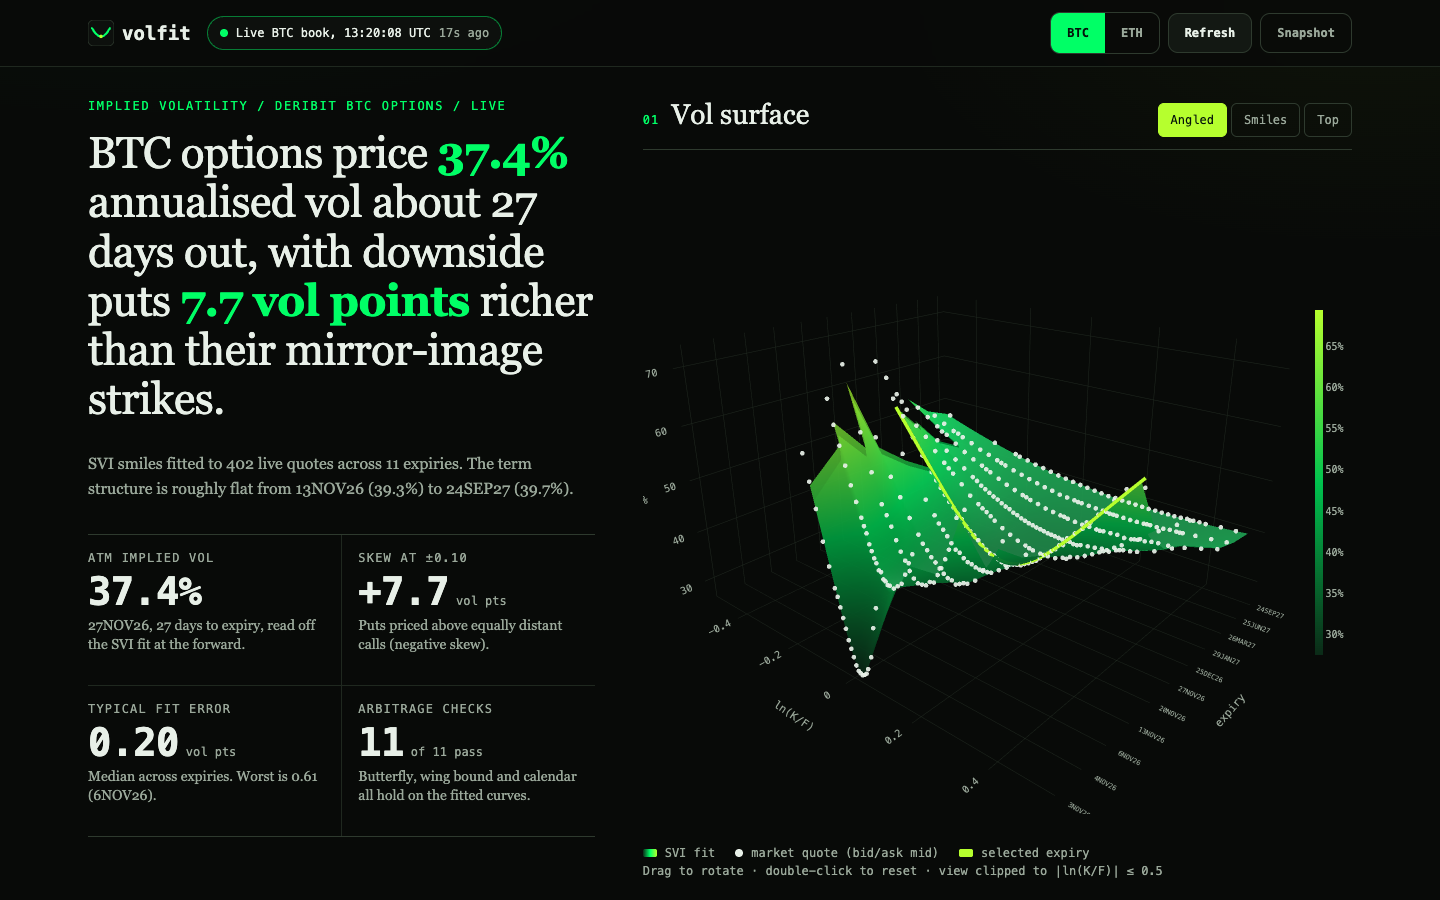
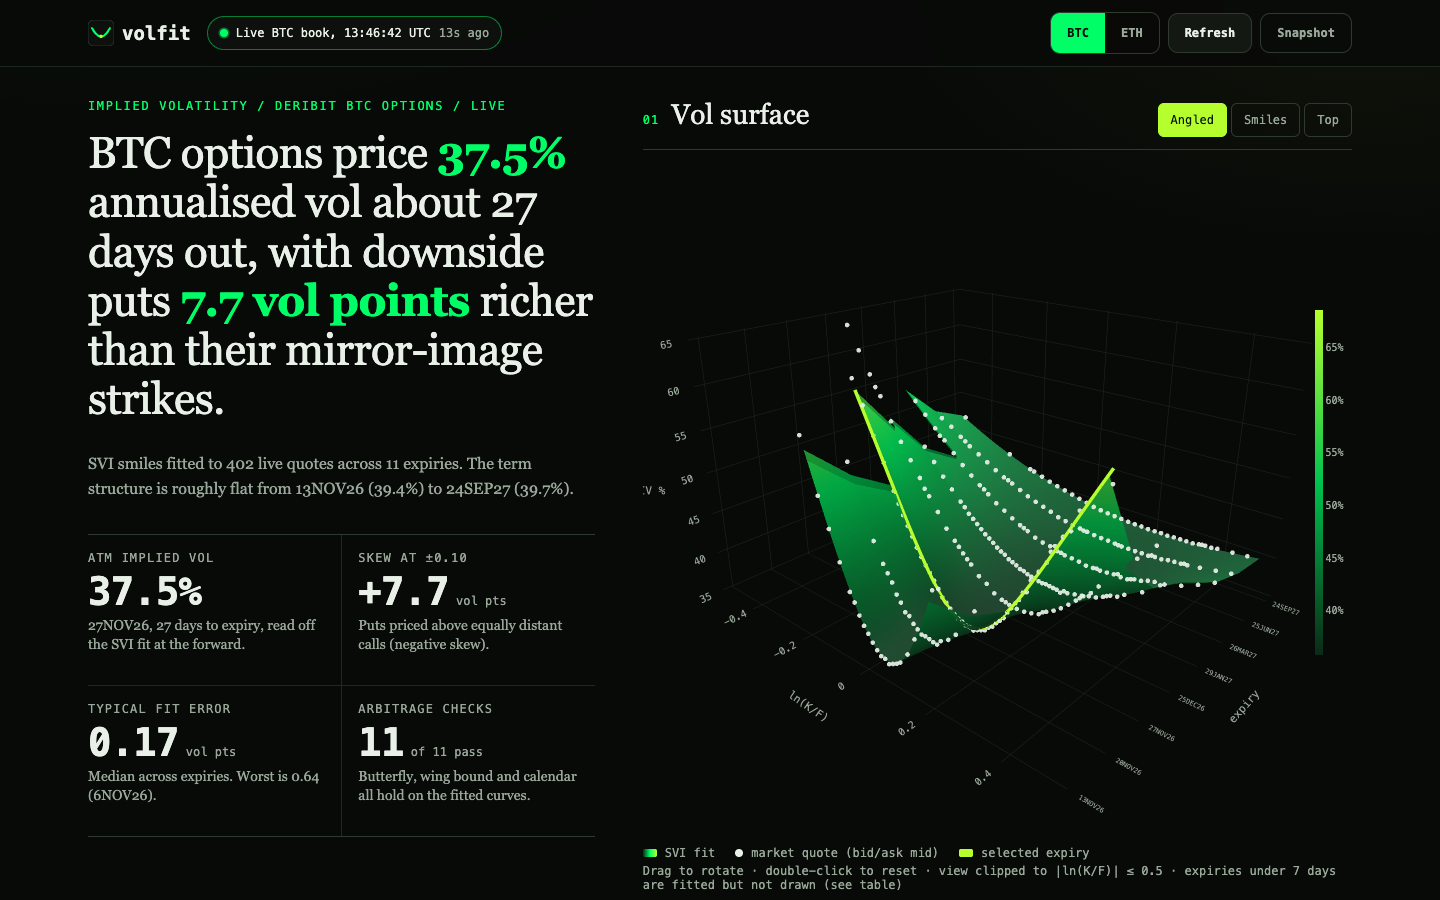
Hide expiries under 7 days from the surface and term line (documented rule, kept in table), larger mobile surface, refreshed screenshots

diff --git a/docs/app.js b/docs/app.js
@@ -11,10 +11,10 @@ const CAMS = {
   smiles: { x: 0.02, y: -2.0, z: 0.28 },
   top: { x: 0.02, y: -0.5, z: 2.2 },
 };
-const camOf = n => { const c = CAMS[n] || CAMS.angled, k = innerWidth < 640 ? 0.78 : 1; return { x: c.x * k, y: c.y * k, z: c.z * k }; };
+const camOf = n => { const c = CAMS[n] || CAMS.angled, k = innerWidth < 640 ? 1.15 : 1; return { x: c.x * k, y: c.y * k, z: c.z * k }; };
 const KCLIP = 0.5; // 3D view only: short-dated wings beyond this dominate the z-axis
 const ASPECT = { x: 1.3, y: 1.1, z: 0.8 };
-const state = { cur: 'BTC', rows: [], fitted: [], sel: 0, data: null, summary: null, cam: 'angled', liveError: null, surf: null, selSeq: 0 };
+const state = { cur: 'BTC', rows: [], fitted: [], shown: [], sel: 0, data: null, summary: null, cam: 'angled', liveError: null, surf: null, selSeq: 0 };
 
 const nextFrame = () => new Promise(r => requestAnimationFrame(() => setTimeout(r, 0)));
 const pct = (x, d = 2) => (x * 100).toFixed(d);
@@ -76,7 +76,8 @@ const sph = e => { const r = Math.hypot(e.x, e.y, e.z); return { r, az: Math.ata
 const eyeOf = o => ({ x: o.r * Math.cos(o.el) * Math.cos(o.az), y: o.r * Math.cos(o.el) * Math.sin(o.az), z: o.r * Math.sin(o.el) });
 const curEye = () => $('surface').layout.scene.camera.eye;
 const wrapAngle = a => Math.atan2(Math.sin(a), Math.cos(a));
-const focusCenter = i => ({ x: 0, y: state.fitted.length > 1 ? 0.28 * (i / (state.fitted.length - 1) - 0.5) * ASPECT.y : 0, z: 0 });
+const shownIdx = () => state.shown.indexOf(state.rows[state.sel]);
+const focusCenter = i => ({ x: 0, y: i >= 0 && state.shown.length > 1 ? 0.28 * (i / (state.shown.length - 1) - 0.5) * ASPECT.y : 0, z: 0 });
 
 let camPending = false, camNext = null;
 function applyCam(eye, center) {
@@ -109,7 +110,7 @@ function glide(toEye, toCenter, dur = 800, key = 'cam') {
 function setCam(name) {
   state.cam = name;
   document.querySelectorAll('.cams button').forEach(b => b.setAttribute('aria-pressed', String(b.dataset.cam === name)));
-  return glide(camOf(name), focusCenter(state.sel >= 0 ? state.fitted.indexOf(state.rows[state.sel]) : 0), 850);
+  return glide(camOf(name), focusCenter(shownIdx()), 850);
 }
 
 // Own orbit control: drag to rotate with inertia, double-click to reset, arrow keys to nudge.
@@ -160,7 +161,7 @@ function wireOrbit() {
 /* ---------- surface ---------- */
 async function renderSurface(rows, animate) {
   const el = $('surface');
-  const fitted = state.fitted;
+  const fitted = state.shown;
   if (!hasGL()) { el.innerHTML = '<p class="note" style="padding:24px">The 3D surface needs WebGL, which this browser has switched off. The smile charts and the diagnostics table still work.</p>'; document.body.dataset.surface = 'ready'; return; }
   if (!fitted.length) { el.textContent = 'No expiry had enough two-sided quotes to fit.'; document.body.dataset.surface = 'ready'; return; }
   const gmin = Math.max(-KCLIP, Math.min(...fitted.map(r => r.kmin))), gmax = Math.min(KCLIP, Math.max(...fitted.map(r => r.kmax)));
@@ -195,8 +196,8 @@ async function renderSurface(rows, animate) {
     hoverlabel: { bgcolor: css('--c-surface'), bordercolor: css('--c-rule-strong'), font: { family: css('--f-mono'), size: 12, color: css('--c-text') } },
     scene: {
       xaxis: ax(innerWidth < 640 ? '' : 'ln(K/F)'), yaxis: ax('expiry', { tickvals: yi, ticktext: fitted.map(r => r.label), tickfont: { size: 9 } }),
-      zaxis: ax('IV %'), camera: { eye: start, center: focusCenter(fitted.indexOf(state.rows[state.sel])), up: { x: 0, y: 0, z: 1 } },
-      aspectmode: 'manual', aspectratio: ASPECT, dragmode: false,
+      zaxis: ax('IV %'), camera: { eye: start, center: focusCenter(shownIdx()), up: { x: 0, y: 0, z: 1 } },
+      aspectmode: 'manual', aspectratio: innerWidth < 640 ? { x: 0.95, y: 1.0, z: 0.8 } : ASPECT, dragmode: false,
     },
   }, { responsive: true, displaylogo: false, displayModeBar: false, scrollZoom: false });
   document.body.dataset.surface = run ? 'building' : 'ready';
@@ -218,8 +219,8 @@ async function renderSurface(rows, animate) {
 function setHighlight() {
   const S = state.surf, el = $('surface');
   if (!S || !el.data) return;
-  const i = state.fitted.indexOf(state.rows[state.sel]);
-  if (i < 0) return;
+  const i = shownIdx();
+  if (i < 0) { Plotly.restyle('surface', { x: [[]], y: [[]], z: [[]] }, [2]); return; }
   const xs = [], zs = [];
   S.kg.forEach((k, j) => { if (S.zFull[i][j] !== null) { xs.push(k); zs.push(S.zFull[i][j] + 0.05); } });
   Plotly.restyle('surface', { x: [xs], y: [xs.map(() => i)], z: [zs] }, [2]);
@@ -321,21 +322,21 @@ async function selectExpiry(i, animate) {
   document.body.dataset.expiry = state.rows[i].label;
   if ($('surface').data) {
     setHighlight();
-    if (animate && state.cam !== 'custom') glide(curEye(), focusCenter(fi), 700, 'focus');
+    if (animate && state.cam !== 'custom') glide(curEye(), focusCenter(shownIdx()), 700, 'focus');
   }
   await drawSmile(!animate, seq);
 }
 
 /* ---------- term structure sparkline ---------- */
 function renderTerm() {
-  const f = state.fitted, svg = $('term');
+  const f = state.shown, svg = $('term');
   if (!f.length) { svg.innerHTML = ''; return; }
   const W = 320, H = 120, L = 8, R = 8, T = 22, B = 26;
   const xs = f.map(r => Math.sqrt(r.days)), x0 = Math.min(...xs), x1 = Math.max(...xs);
   const ys = f.map(r => 100 * r.atm), lo = Math.min(...ys), hi = Math.max(...ys), pad = Math.max(0.5, (hi - lo) * 0.15);
   const X = v => L + (W - L - R) * (x1 === x0 ? 0.5 : (v - x0) / (x1 - x0));
   const Y = v => T + (H - T - B) * (1 - (v - (lo - pad)) / (hi - lo + 2 * pad));
-  const sel = state.fitted.indexOf(state.rows[state.sel]);
+  const sel = shownIdx();
   const pts = f.map((r, i) => [X(xs[i]), Y(ys[i])]);
   const NS = 'http://www.w3.org/2000/svg';
   svg.innerHTML = '';
@@ -343,8 +344,7 @@ function renderTerm() {
   add('line', { class: 'ax', x1: L, x2: W - R, y1: H - B + 6, y2: H - B + 6 });
   add('polyline', { class: 'ln', points: pts.map(p => p.join(',')).join(' ') });
   pts.forEach((p, i) => add('circle', { class: 'pt' + (i === sel ? ' on' : ''), cx: p[0], cy: p[1], r: i === sel ? 5 : 3 }));
-  const sp = pts[sel];
-  add('text', { class: 'hot', x: Math.min(W - 30, Math.max(30, sp[0])), y: Math.max(12, sp[1] - 11), 'text-anchor': 'middle' }, `${ys[sel].toFixed(1)}%`);
+  if (sel >= 0) { const sp = pts[sel]; add('text', { class: 'hot', x: Math.min(W - 30, Math.max(30, sp[0])), y: Math.max(12, sp[1] - 11), 'text-anchor': 'middle' }, `${ys[sel].toFixed(1)}%`); }
   add('text', { x: L, y: H - 6 }, f[0].label);
   add('text', { x: W - R, y: H - 6, 'text-anchor': 'end' }, f[f.length - 1].label);
   svg.setAttribute('aria-label', `ATM implied vol by expiry: ${f.map((r, i) => `${r.label} ${ys[i].toFixed(1)} percent`).join(', ')}`);
@@ -353,21 +353,21 @@ function renderTerm() {
 /* ---------- secondary ---------- */
 function renderTable(rows) {
   const t = $('report');
-  const head = '<thead><tr><th>expiry</th><th>days</th><th>forward</th><th>quotes</th><th>ATM IV %</th><th>RMSE (pts)</th><th>max err</th><th>vs Deribit mark</th><th>butterfly min g</th><th>wing bound</th><th>calendar vs prev</th></tr></thead>';
+  const head = '<thead><tr><th>expiry</th><th>days</th><th>forward</th><th>quotes</th><th>ATM IV %</th><th>RMSE (pts)</th><th>max err</th><th>vs Deribit mark</th><th>butterfly min g</th><th>wing bound</th><th>calendar vs prev</th><th>display</th></tr></thead>';
   const body = rows.map((r, i) => {
-    if (!r.fit) return `<tr data-i="${i}" class="dim"><td>${r.label}</td><td>${r.days.toFixed(1)}</td><td>${Math.round(r.F)}</td><td>${r.used}</td><td colspan="7" style="text-align:left">not fitted: ${r.skipped}</td></tr>`;
+    if (!r.fit) return `<tr data-i="${i}" class="dim"><td>${r.label}</td><td>${r.days.toFixed(1)}</td><td>${Math.round(r.F)}</td><td>${r.used}</td><td colspan="8" style="text-align:left">not fitted: ${r.skipped}</td></tr>`;
     const cal = r.cal === undefined ? '<span class="dim">first</span>' : r.cal === null ? '<span class="dim">no overlap</span>'
       : r.cal.ok ? '<span class="ok">pass</span>' : `<span class="no">fail (${r.cal.worst.toExponential(1)})</span>`;
     return `<tr data-i="${i}"><td>${r.label}</td><td>${r.days.toFixed(1)}</td><td>${Math.round(r.F)}</td><td>${r.used}</td>` +
       `<td>${pct(r.atm)}</td><td>${pct(r.fit.rmse, 3)}</td><td>${pct(r.fit.maxErr, 2)}</td><td>${r.markDiff === null ? 'n/a' : pct(r.markDiff, 2)}</td>` +
-      `<td class="${r.bf.ok ? 'ok' : 'no'}">${r.bf.min.toFixed(3)}</td><td class="${r.lee ? 'ok' : 'no'}">${r.lee ? 'pass' : 'fail'}</td><td>${cal}</td></tr>`;
+      `<td class="${r.bf.ok ? 'ok' : 'no'}">${r.bf.min.toFixed(3)}</td><td class="${r.lee ? 'ok' : 'no'}">${r.lee ? 'pass' : 'fail'}</td><td>${cal}</td><td class="dim" style="text-align:left">${[r.onSurface ? 'on surface' : `not shown on surface: ${r.surfaceReason}`, r.atBound ? 'SVI width at its bound' : ''].filter(Boolean).join('; ')}</td></tr>`;
   }).join('');
   t.innerHTML = head + '<tbody>' + body + '</tbody>';
   t.querySelectorAll('tbody tr').forEach(tr => tr.addEventListener('click', () => {
     const i = Number(tr.dataset.i);
     if (rows[i].fit) { selectExpiry(i, true); $('t-smile').scrollIntoView({ behavior: reduced() ? 'auto' : 'smooth', block: 'start' }); }
   }));
-  $('table-note').textContent = 'Butterfly g is Gatheral\'s density condition scanned on 400 points over the quoted strikes plus 0.05 log-moneyness each side (must be >= 0). Calendar compares total variance of adjacent expiries over the range both trade. "vs Deribit mark" is the median absolute gap between our mid-based IV and Deribit\'s own mark_iv, in vol points. Click a row to open its smile.';
+  $('table-note').textContent = 'Butterfly g is Gatheral\'s density condition scanned on 400 points over the quoted strikes plus 0.05 log-moneyness each side (must be >= 0). Calendar compares total variance of adjacent expiries over the range both trade. "vs Deribit mark" is the median absolute gap between our mid-based IV and Deribit\'s own mark_iv, in vol points. Expiries under 7 days are fitted and checked but not drawn on the 3D surface or the term line. "SVI width at its bound" means the fit hit the allowed range for the width parameter. Click a row to open its smile.';
 }
 
 function renderProv(data, rows) {
@@ -404,6 +404,7 @@ async function run(forceSnapshot) {
     state.data = data;
     state.rows = analyse(data.result, data.fetchedAtMs);
     state.fitted = state.rows.filter(r => r.fit);
+    state.shown = state.fitted.filter(r => r.onSurface);
     state.summary = summarise(state.rows);
     if (!state.summary) throw new Error('no expiry had enough two-sided quotes to fit');
     if (data.source === 'live') setStatus('live', `Live ${cur} book, ${utc(data.fetchedAtMs).slice(11)}`);

diff --git a/test/ui.test.js b/test/ui.test.js
@@ -176,6 +176,33 @@ test('no layout shift while data arrives (skeletons match the final boxes)', asy
   await ctx.close();
 });
 
+test('short-dated expiries are not drawn on the surface or the term line but are listed in the table with the reason', async () => {
+  const { ctx, page } = await open();
+  await page.goto(srv.url);
+  await ready(page);
+  const ticks = await page.evaluate(() => document.getElementById('surface').layout.scene.yaxis.ticktext);
+  const dots = await page.locator('#term circle').count();
+  assert.equal(dots, ticks.length, 'term line and surface show the same expiries');
+  await page.click('#d-table summary');
+  const notShown = await page.locator('#report tbody tr', { hasText: 'not shown on surface: under 7 days to expiry' }).count();
+  assert.ok(notShown >= 1, 'table lists the hidden short expiries with a reason');
+  const rows = await page.locator('#report tbody tr').count();
+  const fittedRows = await page.locator('#report tbody tr', { hasText: 'on surface' }).count();
+  assert.ok(fittedRows === rows - (await page.locator('#report tbody tr', { hasText: 'not fitted' }).count()), 'every fitted expiry is accounted for in the table');
+  assert.ok(ticks.length === fittedRows - notShown, 'surface count = fitted minus not shown');
+  await ctx.close();
+});
+
+test('mobile: the 3D surface fills the viewport width and is tall enough to read', async () => {
+  const { ctx, page } = await open({ viewport: { width: 375, height: 812 } });
+  await page.goto(srv.url);
+  await ready(page);
+  const b = await page.locator('#surface').boundingBox();
+  assert.ok(b.width >= 374, `width ${b.width}`);
+  assert.ok(b.height >= 520, `height ${b.height}`);
+  await ctx.close();
+});
+
 test('dense diagnostics are collapsed until opened', async () => {
   const { ctx, page } = await open();
   await page.goto(srv.url);

diff --git a/docs/index.html b/docs/index.html
@@ -95,7 +95,7 @@
       <div class="overlay" id="surface-ov"><div class="sk-plot sk"></div></div>
     </div>
     <p class="legend"><span class="key k-sheet"></span>SVI fit<span class="key k-dot"></span>market quote (bid/ask mid)<span class="key k-sel"></span>selected expiry</p>
-    <p class="hint">Drag to rotate &middot; double-click to reset &middot; view clipped to |ln(K/F)| &le; 0.5</p>
+    <p class="hint">Drag to rotate &middot; double-click to reset &middot; view clipped to |ln(K/F)| &le; 0.5 &middot; expiries under 7 days are fitted but not drawn (see table)</p>
   </section>
   </div>
 
@@ -151,7 +151,7 @@
       <li>Data is Deribit's public crypto option book at the moment you load or refresh. It is quotes, not trades, and can be stale or thin in the wings.</li>
       <li>Implied vol uses bid/ask mids of out-of-the-money options with a two-sided market, priced with Black-76 on Deribit's forward for each expiry. No interest-rate input.</li>
       <li>The SVI fit is bounded least squares, not a global arbitrage-free calibration. The checks say what holds on the fitted curve over the quoted strikes, and nothing about strikes beyond them. Calendar checks compare adjacent expiries only where both have quotes.</li>
-      <li>Expiries under 2 days are not fitted. Skew is read at &plusmn;0.10 log-moneyness on the expiry closest to 30 days that trades that wide.</li>
+      <li>Expiries under 2 days are not fitted. Expiries under 7 days are fitted and checked but not drawn on the 3D surface or the term line, because they are quoted over a narrow strike window with a very steep smile. Skew is read at &plusmn;0.10 log-moneyness on the expiry closest to 30 days that trades that wide.</li>
       <li>A modelling and visualisation tool. Not trading advice, and not a price you can trade at.</li>
     </ul>
   </section>

diff --git a/docs/lib/analyse.js b/docs/lib/analyse.js
@@ -2,6 +2,15 @@
 import { buildSmiles } from './deribit.js';
 import { fitSvi, sviW, butterflyCheck, leeWingOk, calendarCheck } from './svi.js';
 
+// Display rule (documented in the README): expiries with fewer than this many days to expiry are still
+// fitted, checked and listed in the table, but are not drawn on the 3D sheet or the term-structure line.
+// Reason: they are quoted over a narrow strike window with a very steep smile, so the sheet's front edge
+// would be a handful of wing quotes rather than a surface.
+export const SURFACE_MIN_DAYS = 7;
+export const surfaceReason = r => (r.days < SURFACE_MIN_DAYS ? `under ${SURFACE_MIN_DAYS} days to expiry` : null);
+// SVI width at the edge of the allowed range means the bound, not the data, set that parameter.
+export const widthAtBound = p => p.s >= 1.98 || p.s <= 0.0011;
+
 export function analyse(result, nowMs) {
   const smiles = buildSmiles(result, nowMs);
   const rows = smiles.map(s => {
@@ -13,6 +22,7 @@ export function analyse(result, nowMs) {
     const diffs = s.points.filter(p => p.markIv).map(p => Math.abs(p.iv - p.markIv)).sort((a, b) => a - b);
     return {
       ...s, fit, kmin, kmax, bf, lee: leeWingOk(fit.params),
+      onSurface: surfaceReason({ days: s.days }) === null, surfaceReason: surfaceReason({ days: s.days }), atBound: widthAtBound(fit.params),
       atm: Math.sqrt(sviW(fit.params, 0) / s.T), markDiff: diffs.length ? diffs[diffs.length >> 1] : null,
     };
   });

diff --git a/test/summary.test.js b/test/summary.test.js
@@ -18,3 +18,26 @@ for (const cur of ['btc', 'eth']) {
     assert.match(headline(cur.toUpperCase(), s), new RegExp(`${cur.toUpperCase()} options price <b>${s.atm.toFixed(1)}%</b>`));
   });
 }
+
+import { SURFACE_MIN_DAYS, surfaceReason, widthAtBound } from '../docs/lib/analyse.js';
+
+for (const cur of ['btc', 'eth']) {
+  test(`${cur}: expiries under ${SURFACE_MIN_DAYS} days stay fitted and listed but are marked not shown on the surface`, () => {
+    const snap = JSON.parse(readFileSync(new URL(`../docs/data/${cur}.json`, import.meta.url)));
+    const rows = analyse(snap.result, snap.meta.fetchedAtMs).filter(r => r.fit);
+    const short = rows.filter(r => r.days < SURFACE_MIN_DAYS);
+    assert.ok(short.length >= 1, 'snapshot has short-dated expiries');
+    for (const r of rows) {
+      assert.equal(r.onSurface, r.days >= SURFACE_MIN_DAYS);
+      assert.equal(r.surfaceReason, r.onSurface ? null : `under ${SURFACE_MIN_DAYS} days to expiry`);
+      assert.ok(Number.isFinite(r.fit.rmse) && r.bf && typeof r.lee === 'boolean', 'metrics are kept for every fitted expiry');
+    }
+    assert.ok(rows.some(r => r.onSurface));
+  });
+}
+
+test('rule helpers: boundary at exactly 7 days, and bound detection', () => {
+  assert.equal(surfaceReason({ days: 6.99 }), 'under 7 days to expiry');
+  assert.equal(surfaceReason({ days: 7 }), null);
+  assert.ok(widthAtBound({ s: 2 }) && widthAtBound({ s: 0.001 }) && !widthAtBound({ s: 0.3 }));
+});

diff --git a/docs/styles.css b/docs/styles.css
@@ -207,7 +207,8 @@ footer{display:flex;justify-content:space-between;gap:var(--s-3);flex-wrap:wrap;
   .kpi + .kpi{padding-left:var(--s-4)}
   .kpi:nth-child(3){padding-left:0}
   .panel{margin-top:var(--s-7)}
-  .plot.surface{height:460px}.plot.smile{height:300px}
+  #sec-surface .plotwrap{margin-inline:calc(var(--gut) * -1)}
+  .plot.surface{height:min(600px,74vh)}.plot.smile{height:300px}
   .hint{display:none}
   .prov{grid-template-columns:1fr;gap:var(--s-1)}
   .prov dd{margin-bottom:var(--s-3)}

diff --git a/README.md b/README.md
@@ -63,6 +63,7 @@ Refresh the fallback snapshots with `npm run snapshot`.
 - Data is Deribit's public option book at the moment you load the page. It is quotes, not trades, and can be stale or thin in the wings. Near-dated expiries (under 2 days) are not fitted.
 - This is crypto, not equity, index or rates data. It is not a Cboe or exchange-listed equity chain.
 - The SVI fit is a least-squares fit with bounds. It is not a global arbitrage-free calibration. The butterfly and calendar checks report what holds on the fitted curve over the quoted strike range (plus a small margin), and say nothing about strikes beyond it. Calendar checks compare adjacent expiries only where both have quotes.
+- Display rule: expiries under 7 days to expiry (`SURFACE_MIN_DAYS` in `docs/lib/analyse.js`) are fitted, checked and listed in the diagnostics table, but not drawn on the 3D sheet or the term line. They are quoted over a narrow strike window (about -0.13 to +0.07 log-moneyness on the snapshot) with a very steep smile, so the front edge of the sheet was a few wing quotes. Fits whose SVI width hits its allowed bound are flagged in the table.
 - Animation is for orientation only. Frame rate was measured in headless Chrome with a software renderer, so it says nothing about a real GPU.
 - The 3D view is clipped to `|ln(K/F)| <= 0.5` for readability, and uses the expiry index on its depth axis, not calendar time.
 - The Deribit `mark_iv` comparison is a sanity check on my inversion, not a claim that either is the true vol.
